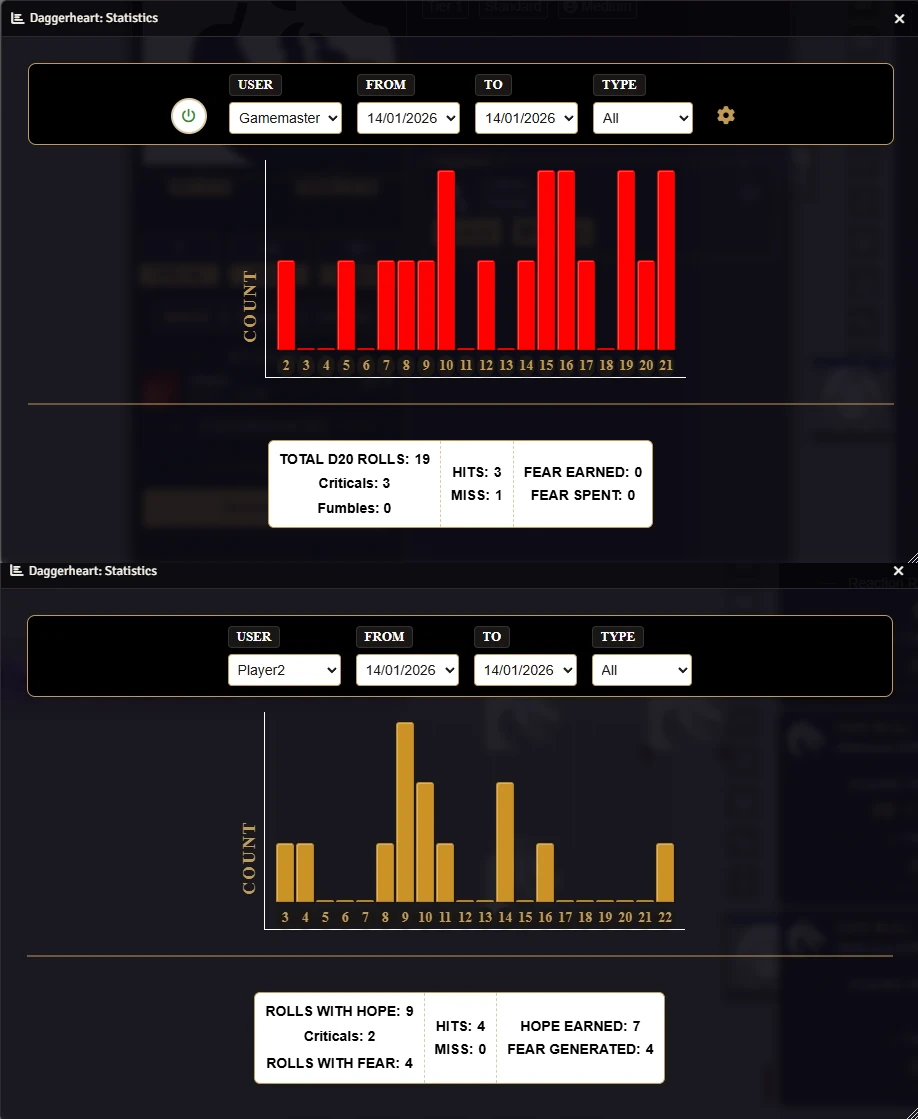
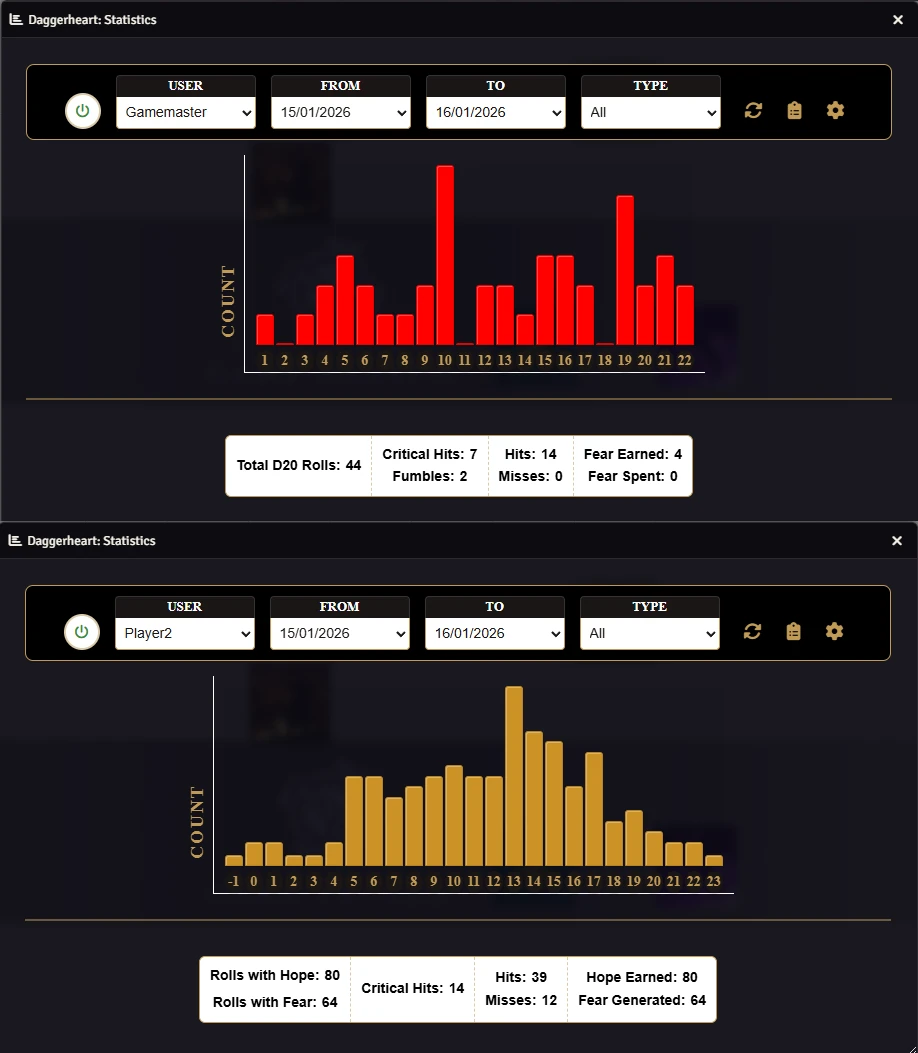
0.0.5

diff --git a/scripts/dhs.js b/scripts/dhs.js
@@ -140,13 +140,13 @@ class SummaryWindow extends HandlebarsApplicationMixin(ApplicationV2) {
         tag: "div",
         classes: ["dhs-summary-scope"], // Isolated CSS scope class
         window: {
-            title: "Daggerheart: Session Summary",
+            title: "Daggerheart: Summary",
             icon: "fas fa-clipboard-list",
             resizable: true,
             contentClasses: ["summary-content"]
         },
         position: {
-            width: 900, // Slightly wider for badges
+            width: 900,
             height: "auto"
         }
     };
@@ -163,6 +163,9 @@ class SummaryWindow extends HandlebarsApplicationMixin(ApplicationV2) {
         const users = game.users.contents;
         let gmData = null;
         let playersData = [];
+        
+        // Create period string once to inject directly
+        const periodString = `${this.dateFrom} - ${this.dateTo}`;
 
         // 1. Gather Data
         for (const user of users) {
@@ -174,7 +177,8 @@ class SummaryWindow extends HandlebarsApplicationMixin(ApplicationV2) {
                 gmData = {
                     name: user.name,
                     color: user.color,
-                    totalD20: result.gmD20Count,
+                    // totalD20: result.gmD20Count, // Removed per request
+                    period: periodString, // Injected here to ensure availability
                     crits: result.gmCrits,
                     fumbles: result.gmFumbles,
                     hits: result.gmHits,
@@ -183,13 +187,15 @@ class SummaryWindow extends HandlebarsApplicationMixin(ApplicationV2) {
                     fearSpent: result.gmFearSpend,
                     min: mathStats.min,
                     max: mathStats.max,
-                    avg: mathStats.avg
+                    avg: mathStats.avg,
+                    totalD20: result.gmD20Count // Kept for count stat
                 };
             } else {
                 mathStats = this._calculateMathStats(result.dualityTotals);
                 playersData.push({
                     name: user.name,
                     color: user.color,
+                    period: periodString,
                     hopeRolls: result.dualityHope, 
                     crits: result.dualityCrit,
                     hits: result.playerHits,

diff --git a/styles/dhs.css b/styles/dhs.css
@@ -255,31 +255,44 @@
     gap: 4px;
 }
 
-.input-group label {
+/* Updated Floating Label Group */
+.floating-label-group {
+    display: flex;
+    flex-direction: column;
+    min-width: 100px;
+    max-width: 140px; /* Moved constraint here so parent controls width */
+    flex: 1; /* Allow flexible growth within container limits */
+}
+
+.input-label {
     font-family: var(--dh-font-header);
     font-size: 13px; 
     font-weight: 700;
     color: #FFFFFF; 
     background-color: var(--dh-color-text); 
     padding: 2px 8px; 
-    border-radius: 4px; 
+    border-radius: 4px 4px 0 0; /* Rounded top only */
     text-transform: uppercase;
-    margin-bottom: 2px;
     border: 1px solid #333; 
+    border-bottom: none; /* Connect to select */
+    width: 100%;
+    box-sizing: border-box;
+    text-align: center;
 }
 
 .compact-select {
-    width: auto;
-    min-width: 100px;
-    max-width: 140px; 
+    width: 100%; /* Fill container */
+    min-width: 100px; /* Keep minimum but respect parent max */
     height: 32px;
     background: #fff;
     border: 1px solid var(--dh-color-gold);
-    border-radius: 4px;
+    border-radius: 0 0 4px 4px; /* Rounded bottom only */
     font-family: var(--dh-font-body);
     color: var(--dh-color-text);
     padding: 0 5px;
     cursor: pointer;
+    box-sizing: border-box;
+    border-top: none; /* Connect to label */
 }
 
 .icon-btn {
@@ -510,7 +523,7 @@
 /* Everything inside .dhs-summary-scope is isolated */
 
 .dhs-summary-scope .summary-content {
-    padding: 5px; /* UPDATED to 5px as requested */
+    padding: 5px; 
     display: flex;
     flex-direction: column;
     gap: 15px;

diff --git a/README.md b/README.md
@@ -10,6 +10,8 @@ Reviewing the session's dice rolls is a great way to wrap up the night. Addition
 
 <p align="center"><img width="900" src="docs/preview.webp" alt="preview"></p>
 
+<p align="center"><img width="900" src="docs/summary.webp" alt="Summary"></p>
+
 ## 🚀 Key Features
 
 * **Automated Roll Tracking:** Automatically captures and logs D20 rolls, Duality Dice (Hope/Fear), and Critical Successes from chat messages.
